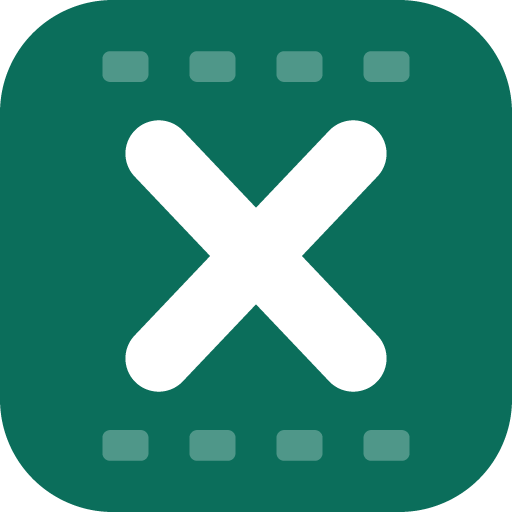
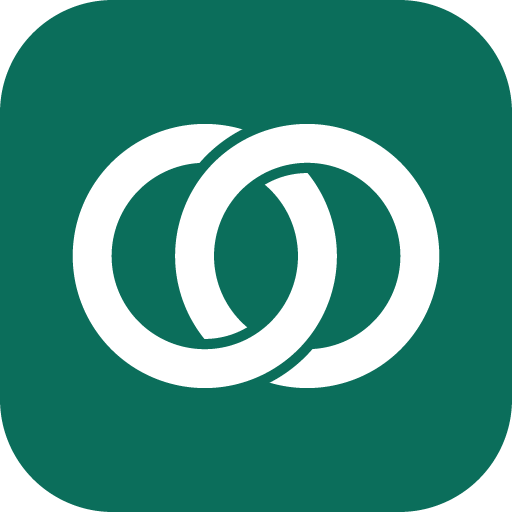
Ребрендинг в Duet: интерфейс и иконки
Логотип «duet», заголовок, манифест и сервис-воркер; новый знак — два
сцепленных кольца (иконки перерисованы скриптом, значок уведомлений
собирается из тех же слоёв). Тексты, где упоминалось название, — с
поправкой падежей; витрина и тесты — под новое имя.

diff --git a/web/src/demo/seed.ts b/web/src/demo/seed.ts
@@ -258,7 +258,7 @@ export function seed() {
   event(oleg, 'message', 25, false);
 
   // Каналы. Канал Нины — чужой, на него подписан смотрящий, и последняя
-  // публикация у него не прочитана. «Хроника изнутри» — свой: в нём витрина
+  // публикация у него не прочитана. «Duet изнутри» — свой: в нём витрина
   // даёт опубликовать самому.
   const channel = (owner: DbUser, handle: string, title: string, description: string, minutes: number) => {
     const c: DbChannel = { id: id(), handle, title, description, ownerId: owner.id, createdAt: ago(minutes) };
@@ -299,7 +299,7 @@ export function seed() {
     { id: id(), postId: n1.id, authorId: nina.id, body: 'Родинал, 1+50 — он прощает почти всё.', createdAt: ago(days(19) - 30) },
   );
 
-  const dev = channel(demo, 'chronika_dev', 'Хроника изнутри', 'Как устроен этот сайт: решения, ошибки и то, что пришлось переделывать.', days(10));
+  const dev = channel(demo, 'duet_dev', 'Duet изнутри', 'Как устроен этот сайт: решения, ошибки и то, что пришлось переделывать.', days(10));
   db.pins.push({ kind: 'channel', scope: String(notes.id), messageId: n1.id });
   db.folders.push(
     { id: id(), userId: demo.id, title: 'Личное', types: ['dm'], include: [], exclude: [], excludeMuted: false, excludeRead: false },
@@ -309,7 +309,7 @@ export function seed() {
       exclude: [], excludeMuted: false, excludeRead: false,
     },
   );
-  const d1 = publish(dev, 'Здесь пишу о том, как устроена «Хроника» изнутри. Первое: сообщения ходят опросом раз в три секунды, без WebSocket, — и этого хватает.', days(9));
+  const d1 = publish(dev, 'Здесь пишу о том, как устроен Duet изнутри. Первое: сообщения ходят опросом раз в три секунды, без WebSocket, — и этого хватает.', days(9));
   db.channelSubs.find((s) => s.channelId === dev.id && s.userId === demo.id)!.lastReadId = d1.id;
   sub(dev, marina, d1.id);
   sub(dev, oleg, d1.id);
@@ -332,7 +332,7 @@ export function seed() {
   });
 
   // «Избранное»: заметка себе и пересланная реплика Марины.
-  dm(demo, demo, 'Исходники «Хроники»: https://github.com/erlan4761/Social-site', days(3));
+  dm(demo, demo, 'Исходники Duet: https://github.com/erlan4761/Social-site', days(3));
   dm(demo, demo, 'Список на субботу: две плёнки Kodak Gold 200, фиксаж, забрать сканы с Литейной.', days(2));
   const kept = dm(demo, demo, 'Второй там и был весь смысл. Они его специально спрятали за лестницей.', 85);
   kept.fwdUserId = marina.id;

diff --git a/web/src/pages/Auth.tsx b/web/src/pages/Auth.tsx
@@ -49,7 +49,7 @@ export function Auth({ mode }: { mode: 'login' | 'register' }) {
   return (
     <div className="center">
       <div className="auth">
-        <span className="wordmark">хроника</span>
+        <span className="wordmark">duet</span>
         {step.kind === 'phone' && (
           <p className="auth-lede">
             {mode === 'register'
@@ -381,7 +381,7 @@ function QrStep({ onDone }: { onDone: (u: User) => void }) {
   return (
     <div className="qr-login">
       <p className="auth-lede">
-        Откройте камеру на телефоне, где вы уже вошли в Хронику, и наведите на код. Камеры нет — в настройках на
+        Откройте камеру на телефоне, где вы уже вошли в Duet, и наведите на код. Камеры нет — в настройках на
         телефоне: «Где выполнен вход» → «Подключить устройство по коду».
       </p>
       {error && <p className="error">{error}</p>}
@@ -497,7 +497,7 @@ function TwoFactorStep({ ticket, onDone, onRestart }: TwoFactorProps) {
       <p className="auth-lede">
         {backup
           ? 'Введите один из резервных кодов, которые вы сохранили при подключении. Каждый действует один раз.'
-          : 'Включён вход с кодом. Откройте приложение-аутентификатор и введите шесть цифр для «Хроники».'}
+          : 'Включён вход с кодом. Откройте приложение-аутентификатор и введите шесть цифр для Duet.'}
       </p>
       {error && (
         <p className="error">

diff --git a/web/src/components/TwoFactorSettings.tsx b/web/src/components/TwoFactorSettings.tsx
@@ -181,7 +181,7 @@ export function TwoFactorSettings({ account, onChange }: { account: AccountSetti
         <form className="settings-form" onSubmit={enable}>
           <ol className="totp-steps">
             <li>Откройте приложение-аутентификатор и добавьте аккаунт по QR-коду.</li>
-            <li>Введите шесть цифр, которые оно покажет для «Хроники».</li>
+            <li>Введите шесть цифр, которые оно покажет для Duet.</li>
           </ol>
           <div className="totp-qr">
             <QrCode text={stage.uri} label="QR-код для приложения-аутентификатора" />
@@ -273,7 +273,7 @@ export function TwoFactorSettings({ account, onChange }: { account: AccountSetti
 /** Коды — файлом: его кладут туда же, где хранят остальное важное. */
 function saveCodes(codes: string[]) {
   const text = [
-    'Хроника — резервные коды для входа',
+    'Duet — резервные коды для входа',
     'Каждый код действует один раз. Храните их там, где их не найдут посторонние.',
     '',
     ...codes,
@@ -282,7 +282,7 @@ function saveCodes(codes: string[]) {
   const url = URL.createObjectURL(new Blob([text], { type: 'text/plain;charset=utf-8' }));
   const a = document.createElement('a');
   a.href = url;
-  a.download = 'hronika-backup-codes.txt';
+  a.download = 'duet-backup-codes.txt';
   document.body.append(a);
   a.click();
   a.remove();

diff --git a/web/src/pages/Search.tsx b/web/src/pages/Search.tsx
@@ -184,7 +184,7 @@ export function Search() {
           ) : byPhone.length === 0 ? (
             <p className="empty flush">
               <strong>Никого.</strong>
-              Либо этого номера нет в Хронике, либо человек не разрешил находить себя по номеру.
+              Либо этого номера нет в Duet, либо человек не разрешил находить себя по номеру.
             </p>
           ) : (
             <PeopleList people={byPhone} />
@@ -325,7 +325,7 @@ function FromContacts() {
       {error && <p className="error">{error}</p>}
       {found && found.length === 0 && (
         <p className="empty flush">
-          Из {asked} {plural(asked, 'номера', 'номеров', 'номеров')} никого: либо их нет в Хронике, либо они не разрешили
+          Из {asked} {plural(asked, 'номера', 'номеров', 'номеров')} никого: либо их нет в Duet, либо они не разрешили
           находить себя по номеру.
         </p>
       )}

diff --git a/web/src/pages/Settings.tsx b/web/src/pages/Settings.tsx
@@ -25,7 +25,7 @@ const PHONE_FIND_CHOICES: Choice[] = [
 ];
 
 const PHONE_SHOW_CHOICES: Choice[] = [
-  { value: 'all', title: 'Все', hint: 'Номер виден в профиле всем, кто вошёл в Хронику. Гостям — никогда.' },
+  { value: 'all', title: 'Все', hint: 'Номер виден в профиле всем, кто вошёл в Duet. Гостям — никогда.' },
   { value: 'follows', title: 'Мои подписки', hint: 'Номер в профиле видят только те, на кого подписаны вы.' },
   { value: 'nobody', title: 'Никто', hint: 'Номер не виден никому.' },
 ];
@@ -797,7 +797,7 @@ function MyData() {
       const url = URL.createObjectURL(blob);
       const a = document.createElement('a');
       a.href = url;
-      a.download = `hronika-${data.profile.username}-${data.exportedAt.slice(0, 10)}.json`;
+      a.download = `duet-${data.profile.username}-${data.exportedAt.slice(0, 10)}.json`;
       document.body.append(a);
       a.click();
       a.remove();

diff --git a/web/src/components/Shell.tsx b/web/src/components/Shell.tsx
@@ -288,7 +288,7 @@ function ShellLayout() {
         {!wide && !fullscreenChat && (
           <header className="topbar">
             <Link className="wordmark" to="/">
-              хроника
+              duet
             </Link>
             <div className="topbar-search">
               <SearchBox />
@@ -303,7 +303,7 @@ function ShellLayout() {
             {wide && (
               <>
                 <Link className="wordmark" to="/">
-                  хроника
+                  duet
                 </Link>
                 <div className="search-slot">
                   <SearchBox />
@@ -405,7 +405,7 @@ function ShellLayout() {
             <div className="aside-slot" ref={setAsideSlot} />
 
             <p className="aside-foot">
-              «Хроника» — спокойный дневник.{' '}
+              Duet — социальная сеть и мессенджер.{' '}
               <a href={REPO} target="_blank" rel="noreferrer">
                 Исходный код
               </a>

diff --git a/web/index.html b/web/index.html
@@ -3,7 +3,7 @@
   <head>
     <meta charset="UTF-8" />
     <meta name="viewport" content="width=device-width, initial-scale=1.0" />
-    <title>Хроника</title>
+    <title>Duet</title>
     <meta name="description" content="Текстовая социальная сеть: профили, лента, посты." />
     <!-- Приложение на экране «Домой»: манифест, значки, цвет строки состояния. -->
     <link rel="manifest" href="/manifest.webmanifest" />
@@ -11,7 +11,7 @@
     <link rel="icon" href="/icon-192.png" type="image/png" sizes="192x192" />
     <link rel="apple-touch-icon" href="/apple-touch-icon.png" />
     <meta name="theme-color" content="#0b6e5b" />
-    <meta name="apple-mobile-web-app-title" content="Хроника" />
+    <meta name="apple-mobile-web-app-title" content="Duet" />
     <link rel="preconnect" href="https://fonts.googleapis.com" />
     <link rel="preconnect" href="https://fonts.gstatic.com" crossorigin />
     <link

diff --git a/web/public/sw.js b/web/public/sw.js
@@ -1,5 +1,5 @@
 /*
- * Сервис-воркер «Хроники»: только пуш-уведомления и переход по ним.
+ * Сервис-воркер Duet: только пуш-уведомления и переход по ним.
  *
  * Кэша страниц здесь нет намеренно: мессенджер без сети бесполезен, а
  * закэшированная старая сборка — источник странных ошибок после выкладки.
@@ -21,7 +21,7 @@ self.addEventListener('push', (event) => {
     data = { body: event.data ? event.data.text() : '' };
   }
   event.waitUntil(
-    self.registration.showNotification(data.title || 'Хроника', {
+    self.registration.showNotification(data.title || 'Duet', {
       body: data.body || '',
       // Одна переписка — одно уведомление: новое заменяет прежнее и звенит снова.
       tag: data.tag,

diff --git a/web/src/qr.test.ts b/web/src/qr.test.ts
@@ -41,7 +41,7 @@ describe('QR: матрица читается назад', () => {
     return { size, version, fmtA: toNum(fmtA), fmtB: toNum(fmtB), text };
   };
 
-  for (const text of ['https://example.com/Social-site/qr/AbCdEfGhIjKlMnOpQrStUv', 'Хроника: вход по QR-коду, чтобы проверить блоки и поле версии', 'x'.repeat(140), 'y'.repeat(200)]) {
+  for (const text of ['https://example.com/Social-site/qr/AbCdEfGhIjKlMnOpQrStUv', 'Duet: вход по QR-коду, чтобы проверить блоки и поле версии', 'x'.repeat(140), 'y'.repeat(200)]) {
     it(`«${text.slice(0, 30)}…» — служебные поля и данные на месте`, () => {
       const m = qrMatrix(text);
       const { size, version, fmtA, fmtB } = read(m, text);

diff --git a/web/src/demo/mockApi.test.ts b/web/src/demo/mockApi.test.ts
@@ -519,8 +519,8 @@ describe('витрина: альбомы', () => {
 
   it('альбом в канале и пересылка альбома целиком', async () => {
     const album = 'albumchan0001';
-    const first = await api.publish('chronika_dev', { file: photo('1.png'), name: '1.png', body: 'Репортаж', album });
-    const second = await api.publish('chronika_dev', { file: photo('2.png'), name: '2.png', album });
+    const first = await api.publish('duet_dev', { file: photo('1.png'), name: '1.png', body: 'Репортаж', album });
+    const second = await api.publish('duet_dev', { file: photo('2.png'), name: '2.png', album });
     expect([first.post.albumId, second.post.albumId]).toEqual([album, album]);
 
     const copy = 'albumfwd00001';

diff --git a/web/src/demo/model/twoFactor.ts b/web/src/demo/model/twoFactor.ts
@@ -123,8 +123,8 @@ export function matchTotp(secret: string, code: string, after = -1): number | nu
 export const newSecret = () => base32Encode(crypto.getRandomValues(new Uint8Array(20)));
 
 export const otpauthUri = (username: string, secret: string) =>
-  `otpauth://totp/${encodeURIComponent('Хроника')}:${encodeURIComponent(username)}` +
-  `?secret=${secret}&issuer=${encodeURIComponent('Хроника')}&algorithm=SHA1&digits=6&period=30`;
+  `otpauth://totp/${encodeURIComponent('Duet')}:${encodeURIComponent(username)}` +
+  `?secret=${secret}&issuer=${encodeURIComponent('Duet')}&algorithm=SHA1&digits=6&period=30`;
 
 /* ─ Резервные коды и второй шаг ─ */
 

diff --git a/web/src/styles/messaging/conversation.css b/web/src/styles/messaging/conversation.css
@@ -8,7 +8,7 @@
   flex: 1;
   min-height: 0;
   /* Фон переписки — едва заметная точечная сетка, как лист в клетку:
-     «Хроника» остаётся дневником, даже когда в ней разговаривают. */
+     лента остаётся местом для чтения, даже когда в ней разговаривают. */
   background-color: var(--canvas);
   background-image: radial-gradient(color-mix(in oklab, var(--ink) 9%, transparent) 1px, transparent 1.2px);
   background-size: 18px 18px;
